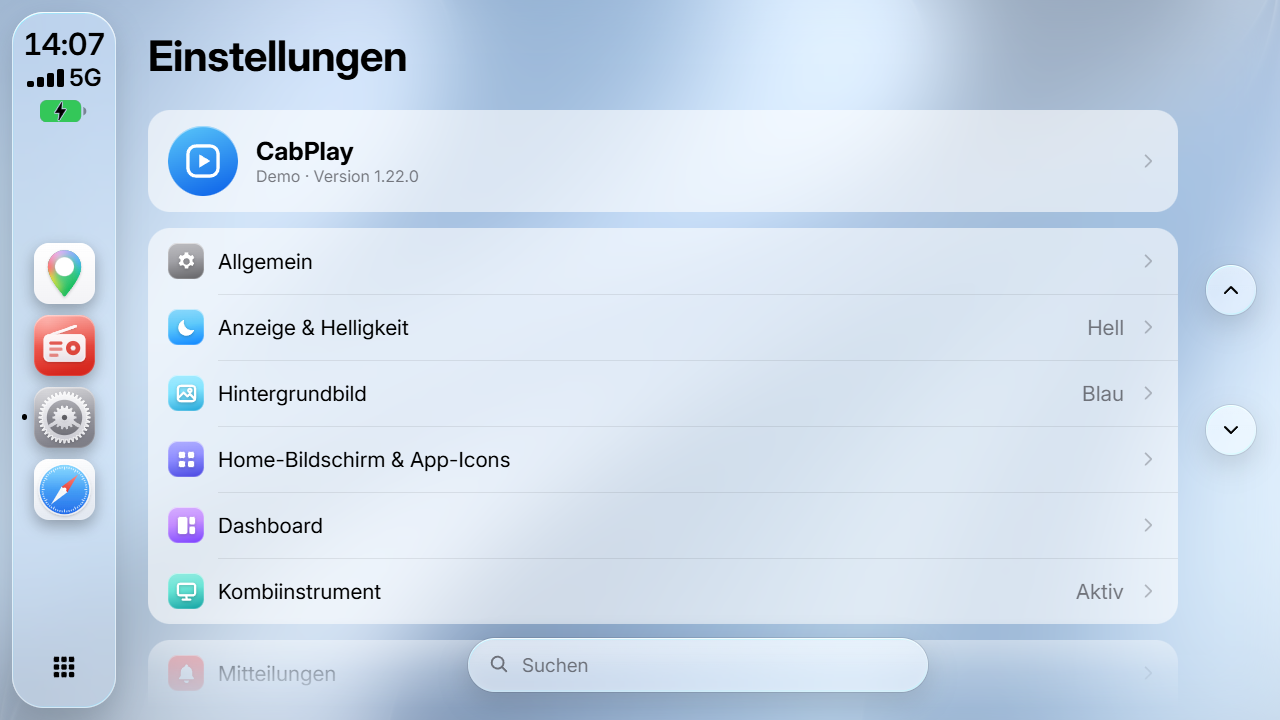
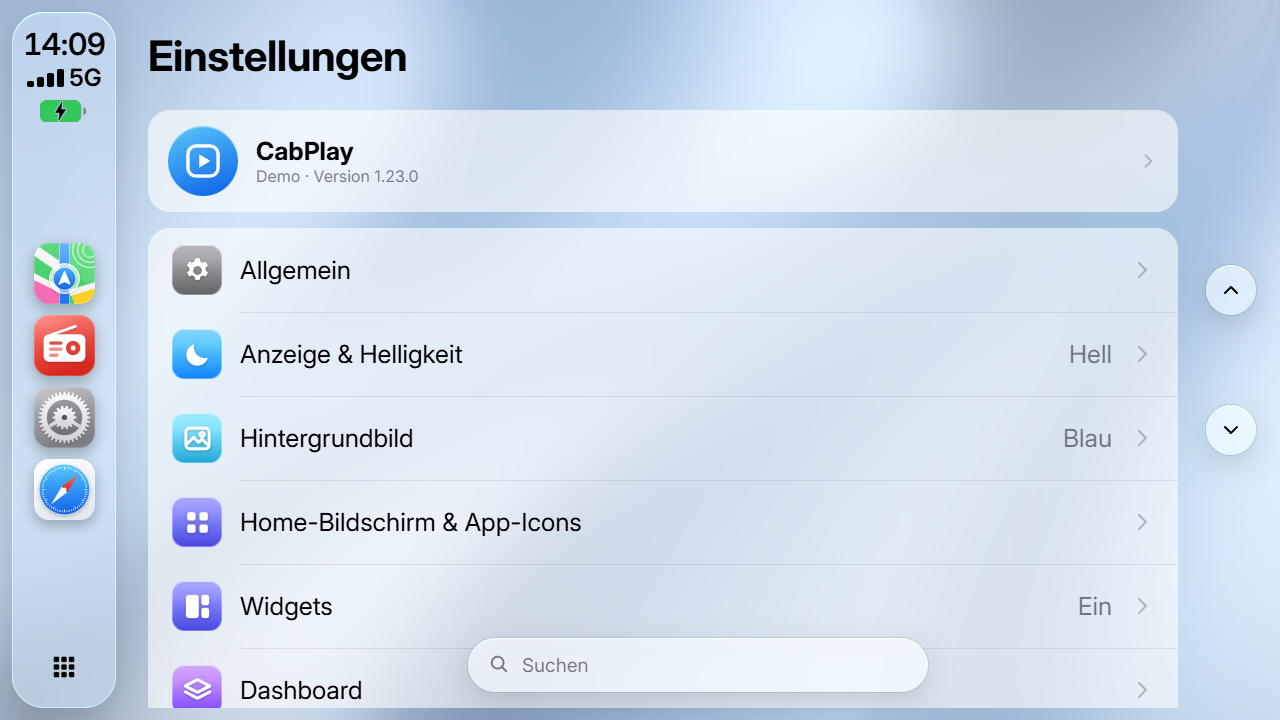
CabPlay 1.23.0

diff --git a/README.de.md b/README.de.md
@@ -24,7 +24,7 @@ Echte Navigation mit Spurhinweisen, Spotify, Radio, Auftrag und Disponent – di
 
 🧭 **Navigation wie im echten Auto** – Abbiegehinweise, die passende Spur vor jeder Kreuzung, Wegweiser wie „Ausfahrt rechts · A1 Richtung Linz“, Ampeln mit Restzeit und Ansagen, auf Wunsch mit natürlich klingender KI-Stimme.
 
-🗺 **Eine Karte aus deinem Spiel** – gebaut aus deinen eigenen Spieldateien, mit allen DLCs: Straßen mit ihren Spuren, Brücken, Gebäude, Wasser, Wälder, Firmengelände. Im Stil von Google Maps oder Apple Karten, hell und dunkel.
+🗺 **Eine Karte aus deinem Spiel** – gebaut aus deinen eigenen Spieldateien, mit allen DLCs: Straßen mit ihren Spuren, Brücken, Gebäude, Wasser, Wälder, Firmengelände. Im Stil von Google Maps oder Apple Karten, hell und dunkel – Apple Karten mit Tempolimit oben rechts und Knöpfen, die erst nach einem Tipp erscheinen.
 
 🚘 **CabPlay Ultra im Kombiinstrument** – CabPlay auch hinter dem Lenkrad: Tacho und Drehzahl, Navi, Musik oder Karte, und die Fahrassistenz-Ansicht mit dem Verkehr ringsum wie in einem Tesla.
 
@@ -32,17 +32,17 @@ Echte Navigation mit Spurhinweisen, Spotify, Radio, Auftrag und Disponent – di
 
 🚚 **Alles rund um die Tour** – Auftrag mit Lieferfrist und Puffer, Disponent per Nachricht und Anruf, Fahrzeugdaten mit Kontrollleuchten, Blitzer- und Waagenwarner, Tanken & Rasten, Wetter, ein Fahrtenbuch mit Karte deiner Strecken – und beim Blinken die Spiegelkamera als Totwinkel-Bild.
 
-⚽ **Und noch mehr** – Live-Fußball, NFL und Formel 1, Videos von YouTube, Twitch und TikTok (auch als Bild im Bild), ein Dashboard mit Widgets nach deinem Geschmack und ein optionaler Sprachassistent, der komplett auf deinem PC läuft.
+⚽ **Und noch mehr** – Live-Fußball, NFL und Formel 1, Videos von YouTube, Twitch und TikTok (auch als Bild im Bild), ein Dashboard nach deinem Geschmack, links daneben eine Widget-Seite wie bei CarPlay mit Uhr, Wetter, Musik und mehr, und ein optionaler Sprachassistent, der komplett auf deinem PC läuft.
 
-🌐 **Ein Browser wie Safari** – Webseiten direkt im Truck: Tabs, Favoriten, privates Surfen, Werbe- und Pop-up-Blocker von Ghostery, dazu eine Bildschirmtastatur mit Wortvorschlägen – auch Chinesisch mit Pinyin.
+🌐 **Ein Browser wie Safari** – Webseiten direkt im Truck: Tabs, Favoriten, privates Surfen, Werbe- und Pop-up-Blocker von Ghostery, eine Adresszeile mit Lupe und Einsetzen wie auf dem iPhone, dazu eine Bildschirmtastatur mit Wortvorschlägen – auch Chinesisch mit Pinyin.
 
-✨ **Im Design von iOS 27** – Liquid Glass mit echter Lichtbrechung an den Kanten, eine gleitende Auswahl in jeder Leiste, Menüs und Einstellungen wie auf dem iPhone.
+✨ **Im Design von iOS 27** – Liquid Glass mit echter Lichtbrechung an den Kanten, eine gleitende Auswahl in jeder Leiste, Menüs und Einstellungen wie auf dem iPhone, App-Icons in Standard, Dunkel und Klar.
 
-🖱 **Bedienung, wie du willst** – mit der Maus direkt auf dem Display im Cockpit, mit Lenkrad-Tasten, per Tastatur oder vom Handy aus. Die Oberfläche gibt es auf Deutsch, Englisch, Polnisch, Türkisch und Chinesisch (vereinfacht und traditionell).
+🖱 **Bedienung, wie du willst** – mit der Maus direkt auf dem Display im Cockpit, mit Lenkrad-Tasten, per Tastatur oder vom Handy aus – in Textfelder tippst du direkt mit der Tastatur des PCs. Die Oberfläche gibt es auf Deutsch, Englisch, Polnisch, Türkisch und Chinesisch (vereinfacht und traditionell).
 
 ## In 3 Schritten startklar
 
-1. **[Herunterladen](../../releases/latest)**, `CabPlay-Setup-….exe` installieren und CabPlay starten – es legt sein Plugin selbst in ETS2 und ATS.
+1. **[Herunterladen](../../releases/latest)**, `CabPlay-Setup-….exe` installieren und CabPlay starten – es legt sein Plugin selbst in ETS2 und ATS. Liegt ein Spiel nicht in deiner Steam-Bibliothek, wählst du den Spielordner einfach selbst aus.
 2. **Spiel starten** und einmal bestätigen, dass es SDK-Plugins laden darf.
 3. **Einsteigen** – CabPlay erscheint auf dem Navi-Display. Ziel im Spiel-Navi setzen oder Auftrag annehmen, los geht’s.
 
@@ -56,8 +56,10 @@ Ab dann startet CabPlay automatisch mit dem Spiel und hält sich selbst aktuell.
 |---|---|
 | ![Ausfahrt rechts mit Spurempfehlung – und was sich an der Grenze ändert](bilder/de/nav-light.png) | ![Fast da: rechts ab aufs Firmengelände](bilder/de/nav-dark.png) |
 | Ausfahrt rechts mit Spurempfehlung – und was sich an der Grenze ändert | Fast da: rechts ab aufs Firmengelände |
-| ![Apple-Stil, mit Symbolen von Apple Karten und Musik](bilder/de/apple-dark.png) | ![Dashboard bei Nacht](bilder/de/dashboard-dark.png) |
-| Apple-Stil, mit Symbolen von Apple Karten und Musik | Dashboard bei Nacht: Navi und Musik nebeneinander |
+| ![Apple Karten wie im Auto: Tempolimit oben rechts, Knöpfe nach einem Tipp](bilder/de/apple-dark.png) | ![Dashboard bei Nacht](bilder/de/dashboard-dark.png) |
+| Apple Karten wie im Auto: Tempolimit oben rechts, Knöpfe nach einem Tipp | Dashboard bei Nacht: Navi und Musik nebeneinander |
+| ![Widget-Seite links vom Dashboard: Uhr und Wetter](bilder/de/widgets.png) | ![Symbole anpassen: Standard, Dunkel und Klar](bilder/de/icons.png) |
+| Widget-Seite links vom Dashboard, Stapel zum Durchwischen | Symbole anpassen: Standard, Dunkel und Klar |
 | ![American Truck Simulator: Meilen, US-Schilder, 12-Stunden-Uhr](bilder/de/ats-nav.png) | ![ATS-Dashboard bei Nacht](bilder/de/ats-dashboard.png) |
 | American Truck Simulator: Meilen, US-Schilder, 12-Stunden-Uhr | ATS-Dashboard bei Nacht |
 | ![Der Disponent ruft an](bilder/de/call.png) | ![Sprachassistent – läuft komplett auf deinem PC](bilder/de/voice.png) |
@@ -70,8 +72,8 @@ Ab dann startet CabPlay automatisch mit dem Spiel und hält sich selbst aktuell.
 | Wetter dort, wo du gerade bist | Live-Spielstände |
 | ![Browser wie Safari: Favoriten und Datenschutzbericht](bilder/de/browser.png) | ![Bildschirmtastatur mit Wortvorschlägen](bilder/de/keyboard.png) |
 | Browser wie Safari: Favoriten, Datenschutzbericht, Werbeblocker | Bildschirmtastatur mit Wortvorschlägen, in vier Sprachen |
-| ![Einstellungen im Liquid-Glass-Design von iOS 27](bilder/de/settings.png) | ![App CabPlay Ultra: Kombiinstrument mit Live-Vorschau](bilder/de/ultra.png) |
-| Einstellungen im Liquid-Glass-Design von iOS 27 | App CabPlay Ultra: Kombiinstrument mit Live-Vorschau |
+| ![Einstellungen im Design von iOS 27](bilder/de/settings.png) | ![App CabPlay Ultra: Kombiinstrument mit Live-Vorschau](bilder/de/ultra.png) |
+| Einstellungen im Design von iOS 27, Widgets mit eigener Zeile | App CabPlay Ultra: Kombiinstrument mit Live-Vorschau |
 
 ## CabPlay Ultra im Kombiinstrument
 
@@ -143,6 +145,7 @@ CabPlay liest die Karte aus den Dateien deines Spiels, mit allen DLCs, und baut 
 - Straßen so breit, wie sie Spuren haben, Brücken über den Straßen darunter, Einbahnpfeile, nah herangezoomt Fahrbahnmarkierungen und aufgemalte Abbiegepfeile
 - Gebäude, Wasser, Wälder, Wiesen, Felder, Fels und Sand, Firmengelände mit Hof- und Parkflächen
 - Zwei Stile wie Google Maps und Apple Karten, hell und dunkel, flach oder schräg von hinten – Abbiegehinweis und Tempo-Anzeige bleiben wie im Original oder kommen in eine Ecke deiner Wahl
+- Apple Karten wie im Auto: Tempolimit oben rechts, die Knöpfe erscheinen erst nach einem Tipp auf die Karte – Routenübersicht, Ton (Ton an, Nur Hinweise, Ton aus), Melden, Verschieben mit Pfeilen, + und −. Ohne Route keine leere Ankunftsanzeige
 - Ab Werk aus, jederzeit einschaltbar: 3D-Gebäude, kleine Orte, Aussichtspunkte, versteckte Straßen und geheime Abkürzungen
 
 Flüsse, Seen, Kanäle und Meer kommen direkt aus dem Gelände des Spiels – vom Rhein bis zu den Fjorden. An kleinen Stellen kann es noch abweichen: Stimmt die Karte irgendwo nicht, wählst du im Kartenmenü „Fehler auf der Karte melden“ – gern hier als Issue anhängen.
@@ -180,7 +183,8 @@ Breitere Displays, etwa im Freightliner Cascadia oder Western Star 57X, zeigt Ca
 - **Spiegelkamera**: In Trucks mit Kameraspiegeln zeigt das Display beim Blinken den Weitwinkelspiegel dieser Seite – wie eine Totwinkel-Kamera, wahlweise an Stelle eines laufenden Videos. ETS2: Volvo FH, DAF 2021/XD/XF Electric, Iveco S-Way, Renault T, MAN TGX (ungetestet), die Busse Volvo 9700 und MAN Lion's Coach; ATS: Volvo VNL, Kenworth T680, Freightliner Cascadia. Kameraspiegel aus einer Mod schaltest du je Lkw unter Einstellungen › Spiegelkamera frei
 - **Fahrtenbuch**: auf Wunsch jede Fahrt mit Strecke – von, nach, Ladung, Kilometer, Lohn, Maut und Strafen, Gewinn, Mini-Karte –, dazu Kilometer je Land und alle gefahrenen Strecken als Ebene auf der Karte. Gespeichert nur auf deinem PC
 - Telefon mit Disponent und Pannenhilfe, Nachrichten, Kalender, Tanken & Rasten
-- **Browser**: Webseiten auf dem Display im Truck, gebaut wie Safari – Startseite mit Favoriten, zuletzt besuchten Seiten und Datenschutzbericht, bis zu fünf Tabs, privates Surfen, Werbe- und Pop-up-Blocker (Ghostery), Videos und Livestreams. Adresse antippen zeigt sie markiert, vom Rand wischen geht zurück, ein Link gedrückt gehalten öffnet ein Menü, lange auf Zurück zeigt den Verlauf. Beim Fahren auf Wunsch nur Ton
+- **Browser**: Webseiten auf dem Display im Truck, gebaut wie Safari – Startseite mit Favoriten, zuletzt besuchten Seiten und Datenschutzbericht, bis zu fünf Tabs, privates Surfen, Werbe- und Pop-up-Blocker (Ghostery), Videos und Livestreams. Adresse antippen zeigt sie markiert; in der Adresszeile setzt ein Tipp den Cursor, Gedrückthalten zeigt eine Lupe, dazu Einsetzen und Alles auswählen. Ein Tipp auf die Seite schließt die Tastatur, vom Rand wischen geht zurück, ein Link gedrückt gehalten öffnet ein Menü, lange auf Zurück zeigt den Verlauf. Beim Fahren auf Wunsch nur Ton
+- **Widgets**: links vom Dashboard eine eigene Seite wie bei CarPlay – Uhr, Datum, Wetter, Vorhersage, Sonnenauf- und -untergang, Jetzt läuft, Füllstände, Mitteilungen, Meine Teams und mehr, in zwei oder drei Stapeln, die du nach oben oder unten durchwischst. Einstellen unter Einstellungen › Widgets
 - **Assistenz**: links die Karte, rechts die Fahrassistenz wie im Kombiinstrument, mit Abbiegehinweis und Ankunft
 - **Bus-DLC (Coaches)**: MAN Lion's Coach, Scania Touring und Volvo 9700 werden als Bus erkannt – Buslinie mit Halten in der Auftrags-App und im Navi, der Bus in echter Länge im Kombiinstrument, und im Rückwärtsgang zeigt das Navi wie im Spiel die Rückfahrkamera des Busses
 
@@ -211,11 +215,13 @@ Alle Kürzel lassen sich ändern, auch auf Lenkrad-Tasten.
 
 **Bildschirmtastatur:** Deutsch, Englisch, Polnisch und Türkisch (Weltkugel-Taste), Chinesisch mit Pinyin-Eingabe in Kurz- und Langzeichen, Sonderzeichen durch Gedrückthalten, Wortvorschläge, Autokorrektur und Großschreibung am Satzanfang wie beim iPhone – einstellbar unter Einstellungen › Allgemein › Tastatur. Gelernte Wörter bleiben auf deinem PC.
 
-**Anpassen:** Die App-Leiste sitzt links, rechts, oben oder unten (Einstellungen › Home-Bildschirm & App-Icons). Lautstärken stellst du mit Schiebereglern ein, auch im Kartenmenü. Spielst du mit HDR, passen sich das Menü und der Touch-Modus der Helligkeit an.
+**PC-Tastatur:** In Textfelder von CabPlay im Truck – Browser, Suche, Einstellungen – tippst du direkt mit der Tastatur des PCs. Abschaltbar im CabPlay-Menü im Spiel.
+
+**Anpassen:** Die App-Leiste sitzt links, rechts, oben oder unten (Einstellungen › Home-Bildschirm & App-Icons). Unter „Symbole anpassen“ wählst du App-Icons in Standard, Dunkel oder Klar. Zwischen Widget-Seite, Dashboard und Apps wischst du – auch mit dem Mausrad. Lautstärken stellst du mit Schiebereglern ein, auch im Kartenmenü. Spielst du mit HDR, passen sich das Menü und der Touch-Modus der Helligkeit an.
 
 **Touch:** Entweder liegt CabPlay als Fenster über dem Spiel, oder du kalibrierst einmal das Display im Cockpit (vier Ecken anklicken) und klickst danach direkt auf den Bildschirm im Truck – Kopf- und Kabinenbewegungen rechnet CabPlay heraus. Die Kalibrierung merkt sich CabPlay für jeden Truck und jedes Auto.
 
-**Handy:** In den Einstellungen die Handy-Steuerung einschalten und den QR-Code scannen – Handy und PC im selben WLAN.
+**Handy:** In den Einstellungen die Handy-Steuerung einschalten und den QR-Code scannen – Handy und PC im selben WLAN. Der Code lässt sich jederzeit neu erzeugen, dann gilt der alte nicht mehr.
 
 </details>
 
@@ -227,7 +233,7 @@ Alle Kürzel lassen sich ändern, auch auf Lenkrad-Tasten.
 3. Die Client ID kopieren.
 4. In CabPlay im Editor-Fenster unter Einstellungen › Musik › Spotify-Mediathek die Client ID einfügen, auf Verbinden klicken und im Browser zustimmen.
 
-Die Anmeldung bleibt auf deinem PC (`%APPDATA%\CabPlay`). Zum Abspielen aus der Mediathek brauchst du Spotify Premium und eine offene Spotify-App.
+Die Anmeldung bleibt verschlüsselt auf deinem PC (`%APPDATA%\CabPlay`). Zum Abspielen aus der Mediathek brauchst du Spotify Premium und eine offene Spotify-App.
 
 </details>
 
@@ -251,7 +257,7 @@ Get-FileHash .\CabPlay-Setup-*.exe -Algorithm SHA256
 ```
 
 **CabPlay erscheint nicht im Spiel.**
-Das Spiel einmal ganz beenden und neu starten, die SDK-Abfrage bestätigen. In der App unter Einstellungen › Allgemein › Plugin & Spiel nachsehen, ob das Plugin installiert ist. Dann im Spiel mit Strg + F8 das Menü öffnen und Anwenden drücken. Was das Plugin im Spiel macht, steht in `cabplay.log` neben `cabplay.dll` im Ordner `bin\win_x64\plugins` des Spiels.
+Das Spiel einmal ganz beenden und neu starten, die SDK-Abfrage bestätigen. In der App unter Einstellungen › Allgemein › Plugin & Spiel nachsehen, ob das Plugin installiert ist – findet CabPlay das Spiel nicht, dort mit „Spielordner wählen …“ den Ordner des Spiels auswählen. Dann im Spiel mit Strg + F8 das Menü öffnen und Anwenden drücken. Was das Plugin im Spiel macht, steht in `cabplay.log` neben `cabplay.dll` im Ordner `bin\win_x64\plugins` des Spiels.
 
 **Muss ich das CabPlay-Fenster beim Spielen offen haben?**
 Nein. CabPlay startet mit dem Spiel und läuft im Hintergrund – alles ist auf dem Display im Truck bedienbar, das Fenster ist für die Einstellungen. Offen gelassen kostet es nur zusätzlich Rechenleistung. Schließt du es während des Spiels, läuft CabPlay weiter; beenden oder das Fenster wieder öffnen geht über das CabPlay-Symbol im Infobereich unten rechts.

diff --git a/README.md b/README.md
@@ -24,7 +24,7 @@ English · [Deutsch](README.de.md)
 
 🧭 **Navigation like in a real car** – turn-by-turn directions, the right lane before every junction, signposts like "Exit right · A1 towards Linz", traffic lights with countdown and voice guidance, optionally with a natural-sounding AI voice.
 
-🗺 **A map built from your game** – made from your own game files with all your DLCs: roads with their lanes, bridges, buildings, water, forests, company yards. In the style of Google Maps or Apple Maps, light and dark.
+🗺 **A map built from your game** – made from your own game files with all your DLCs: roads with their lanes, bridges, buildings, water, forests, company yards. In the style of Google Maps or Apple Maps, light and dark – Apple Maps with the speed limit at the top right and buttons that only appear after a tap.
 
 🚘 **CabPlay Ultra in the instrument cluster** – CabPlay behind the steering wheel too: speed and revs, navigation, music or the map, and a driver assistance view with the traffic around you like in a Tesla.
 
@@ -32,17 +32,17 @@ English · [Deutsch](README.de.md)
 
 🚚 **Everything for the trip** – your job with deadline and buffer, a dispatcher who texts and calls, vehicle data with warning lights, speed camera and weigh station alerts, fuel & rest stops, weather, a logbook with a map of your routes – and the mirror camera as a blind spot view when you indicate.
 
-⚽ **And more** – live football, NFL and Formula 1, videos from YouTube, Twitch and TikTok (also as picture in picture), a dashboard with widgets the way you like it and an optional voice assistant that runs entirely on your PC.
+⚽ **And more** – live football, NFL and Formula 1, videos from YouTube, Twitch and TikTok (also as picture in picture), a dashboard the way you like it, with a widget page like CarPlay to its left – clock, weather, music and more – and an optional voice assistant that runs entirely on your PC.
 
-🌐 **A browser like Safari** – web pages right in the truck: tabs, favorites, private browsing, ad and pop-up blocking by Ghostery, plus an on-screen keyboard with word suggestions – Chinese with pinyin, too.
+🌐 **A browser like Safari** – web pages right in the truck: tabs, favorites, private browsing, ad and pop-up blocking by Ghostery, an address bar with a magnifier and Paste like on the iPhone, plus an on-screen keyboard with word suggestions – Chinese with pinyin, too.
 
-✨ **In the design of iOS 27** – Liquid Glass with real light refraction at the edges, a sliding selection in every bar, menus and settings like on the iPhone.
+✨ **In the design of iOS 27** – Liquid Glass with real light refraction at the edges, a sliding selection in every bar, menus and settings like on the iPhone, app icons in Default, Dark and Clear.
 
-🖱 **Control it your way** – with the mouse right on the display in the cab, with steering wheel buttons, the keyboard or your phone. The interface comes in English, German, Polish, Turkish and Chinese (Simplified and Traditional).
+🖱 **Control it your way** – with the mouse right on the display in the cab, with steering wheel buttons, the keyboard or your phone – and you type into text fields straight from your PC keyboard. The interface comes in English, German, Polish, Turkish and Chinese (Simplified and Traditional).
 
 ## Ready in 3 steps
 
-1. **[Download](../../releases/latest)**, install `CabPlay-Setup-….exe` and start CabPlay – it puts its plugin into ETS2 and ATS by itself.
+1. **[Download](../../releases/latest)**, install `CabPlay-Setup-….exe` and start CabPlay – it puts its plugin into ETS2 and ATS by itself. If a game isn't in your Steam library, just choose the game folder yourself.
 2. **Start the game** and confirm once that it may load SDK plugins.
 3. **Get in** – CabPlay appears on the navigation display. Set a destination in the game's navigation or take a job, and off you go.
 
@@ -56,8 +56,10 @@ From then on CabPlay starts with the game and keeps itself up to date. Nothing i
 |---|---|
 | ![Exit right with lane guidance – and what changes at the border](bilder/en/nav-light.png) | ![Almost there: exit right to the company yard](bilder/en/nav-dark.png) |
 | Exit right with lane guidance – and what changes at the border | Almost there: exit right to the company yard |
-| ![Apple style, with Apple Maps and Music icons](bilder/en/apple-dark.png) | ![Dashboard at night](bilder/en/dashboard-dark.png) |
-| Apple style, with Apple Maps and Music icons | Dashboard at night: navigation and music side by side |
+| ![Apple Maps like in the car: speed limit at the top right, buttons after a tap](bilder/en/apple-dark.png) | ![Dashboard at night](bilder/en/dashboard-dark.png) |
+| Apple Maps like in the car: speed limit at the top right, buttons after a tap | Dashboard at night: navigation and music side by side |
+| ![Widget page to the left of the dashboard: clock and weather](bilder/en/widgets.png) | ![Customize Icons: Default, Dark and Clear](bilder/en/icons.png) |
+| Widget page to the left of the dashboard, stacks to swipe through | Customize Icons: Default, Dark and Clear |
 | ![American Truck Simulator: miles, US signs, 12-hour clock](bilder/en/ats-nav.png) | ![ATS dashboard at night](bilder/en/ats-dashboard.png) |
 | American Truck Simulator: miles, US signs, 12-hour clock | ATS dashboard at night |
 | ![The dispatcher calls](bilder/en/call.png) | ![Voice assistant – runs entirely on your PC](bilder/en/voice.png) |
@@ -70,8 +72,8 @@ From then on CabPlay starts with the game and keeps itself up to date. Nothing i
 | Weather where you are | Live scores |
 | ![Browser like Safari: favorites and privacy report](bilder/en/browser.png) | ![On-screen keyboard with word suggestions](bilder/en/keyboard.png) |
 | Browser like Safari: favorites, privacy report, ad blocker | On-screen keyboard with word suggestions, in four languages |
-| ![Settings in the Liquid Glass design of iOS 27](bilder/en/settings.png) | ![CabPlay Ultra app: the instrument cluster with live preview](bilder/en/ultra.png) |
-| Settings in the Liquid Glass design of iOS 27 | CabPlay Ultra app: the instrument cluster with live preview |
+| ![Settings in the design of iOS 27](bilder/en/settings.png) | ![CabPlay Ultra app: the instrument cluster with live preview](bilder/en/ultra.png) |
+| Settings in the design of iOS 27, widgets in their own row | CabPlay Ultra app: the instrument cluster with live preview |
 
 ## CabPlay Ultra in the instrument cluster
 
@@ -143,6 +145,7 @@ CabPlay reads the map from your game files, with all your DLCs, and rebuilds it 
 - Roads as wide as their lanes, bridges above the roads below, one-way arrows, and up close lane markings and painted turn arrows
 - Buildings, water, forests, meadows, fields, rock and sand, company yards with their lots
 - Two styles like Google Maps and Apple Maps, light and dark, flat or tilted from behind – the turn banner and speed display stay as in the original or go into a corner of your choice
+- Apple Maps like in the car: speed limit at the top right, and the buttons only appear after a tap on the map – route overview, sound (all announcements, alerts only, off), report, pan with arrows, + and −. No empty arrival display without a route
 - Off by default, switch on any time: 3D buildings, small towns, viewpoints, hidden roads and secret shortcuts
 
 Rivers, lakes, canals and the sea come straight from the game's terrain – from the Rhine to the fjords. Small spots can still be off: if the map is wrong somewhere, choose "Report a map error" in the map menu – feel free to attach it here as an issue.
@@ -180,7 +183,8 @@ Wider displays, e.g. in the Freightliner Cascadia or Western Star 57X, are shown
 - **Mirror camera**: in trucks with camera mirrors, the display shows that side's wide-angle mirror when you indicate – like a blind spot camera, optionally in place of a playing video. ETS2: Volvo FH, DAF 2021/XD/XF Electric, Iveco S-Way, Renault T, MAN TGX (untested), the Volvo 9700 and MAN Lion's Coach buses; ATS: Volvo VNL, Kenworth T680, Freightliner Cascadia. Camera mirrors from a mod can be enabled per truck under Settings › Mirror camera
 - **Logbook**: if you like, every trip with its route – from, to, cargo, distance, pay, tolls and fines, profit, mini map – plus distance per country and all your driven routes as a layer on the map. Stored only on your PC
 - Phone with dispatcher and roadside assistance, messages, calendar, fuel & rest stops
-- **Browser**: web pages on the display in the truck, built like Safari – start page with favorites, recently visited and a privacy report, up to five tabs, private browsing, ad and pop-up blocking (Ghostery), videos and live streams. Tap the address to see it selected, swipe from the edge to go back, press and hold a link for a menu, press and hold Back for the history. While driving, sound only if you like
+- **Browser**: web pages on the display in the truck, built like Safari – start page with favorites, recently visited and a privacy report, up to five tabs, private browsing, ad and pop-up blocking (Ghostery), videos and live streams. Tap the address to see it selected; in the address bar a tap places the cursor, holding shows a magnifier, plus Paste and Select All. A tap on the page closes the keyboard, swipe from the edge to go back, press and hold a link for a menu, press and hold Back for the history. While driving, sound only if you like
+- **Widgets**: a page of its own to the left of the dashboard, like CarPlay – clock, date, weather, forecast, sunrise and sunset, Now Playing, levels, notifications, My Teams and more, in two or three stacks you swipe up or down. Set it up under Settings › Widgets
 - **Assist**: the map on the left, the driver assistance view from the instrument cluster on the right, with turn banner and arrival
 - **Bus DLC (Coaches)**: MAN Lion's Coach, Scania Touring and Volvo 9700 are recognised as buses – bus line with stops in the job app and the navigation, the bus at its real length in the instrument cluster, and when reversing the navigation display shows the bus's rear camera like in the game
 
@@ -211,11 +215,13 @@ All shortcuts can be changed, including to steering wheel buttons.
 
 **On-screen keyboard:** English, German, Polish and Turkish (globe key), Chinese with pinyin input in Simplified and Traditional characters, special characters by pressing and holding, word suggestions, auto-correction and auto-capitalization like on the iPhone – set it up under Settings › General › Keyboard. Learned words stay on your PC.
 
-**Customise:** the app bar sits on the left, right, top or bottom (Settings › Home screen & app icons). Volumes are set with sliders, in the map menu too. If you play with HDR, the menu and touch mode adapt to the brightness.
+**PC keyboard:** in CabPlay text fields in the truck – browser, search, settings – you type straight from your PC keyboard. Can be switched off in the CabPlay menu in the game.
+
+**Customise:** the app bar sits on the left, right, top or bottom (Settings › Home screen & app icons). Under "Customize Icons" you pick app icons in Default, Dark or Clear. Swipe between the widget page, the dashboard and the apps – with the mouse wheel, too. Volumes are set with sliders, in the map menu too. If you play with HDR, the menu and touch mode adapt to the brightness.
 
 **Touch:** either CabPlay sits as a window over the game, or you calibrate the display in the cab once (click its four corners) and then click right on the screen in the truck – CabPlay compensates for head and cab movement. The calibration is remembered for every truck and car.
 
-**Phone:** switch on phone control in the settings and scan the QR code – phone and PC on the same Wi-Fi.
+**Phone:** switch on phone control in the settings and scan the QR code – phone and PC on the same Wi-Fi. You can renew the code at any time, the old one then stops working.
 
 </details>
 
@@ -227,7 +233,7 @@ All shortcuts can be changed, including to steering wheel buttons.
 3. Copy the Client ID.
 4. In CabPlay's editor window under Settings › Music › Spotify library, paste the Client ID, click Connect and agree in the browser.
 
-The sign-in stays on your PC (`%APPDATA%\CabPlay`). Playing from the library needs Spotify Premium and an open Spotify app.
+The sign-in stays encrypted on your PC (`%APPDATA%\CabPlay`). Playing from the library needs Spotify Premium and an open Spotify app.
 
 </details>
 
@@ -251,7 +257,7 @@ Get-FileHash .\CabPlay-Setup-*.exe -Algorithm SHA256
 ```
 
 **CabPlay doesn't show up in the game.**
-Quit the game completely, start it again and confirm the SDK prompt. In the app, check under Settings › General › Plugin & game that the plugin is installed. Then open the menu in the game with Ctrl + F8 and press Apply. What the plugin does in the game is written to `cabplay.log` next to `cabplay.dll` in the game's `bin\win_x64\plugins` folder.
+Quit the game completely, start it again and confirm the SDK prompt. In the app, check under Settings › General › Plugin & game that the plugin is installed – if CabPlay can't find the game, use "Choose game folder …" there to select the game's folder. Then open the menu in the game with Ctrl + F8 and press Apply. What the plugin does in the game is written to `cabplay.log` next to `cabplay.dll` in the game's `bin\win_x64\plugins` folder.
 
 **Do I need to keep the CabPlay window open while playing?**
 No. CabPlay starts with the game and runs in the background – everything works on the truck display, the window is for settings. Leaving it open only costs extra performance. If you close it while playing, CabPlay keeps running; to quit or open the window again, use the CabPlay icon in the notification area at the bottom right.
